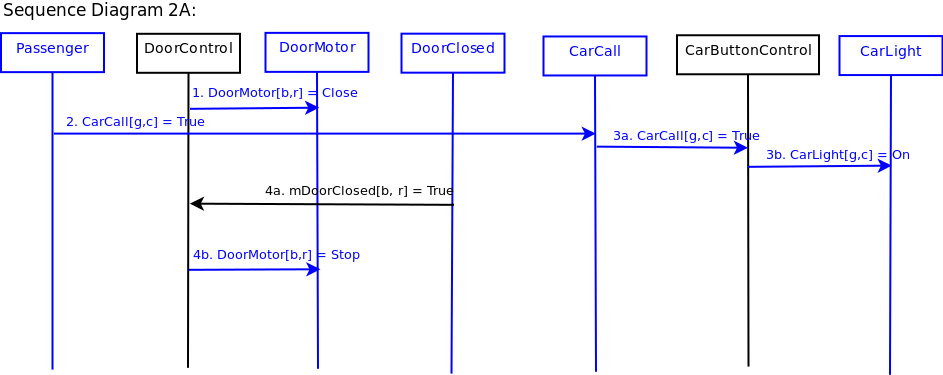
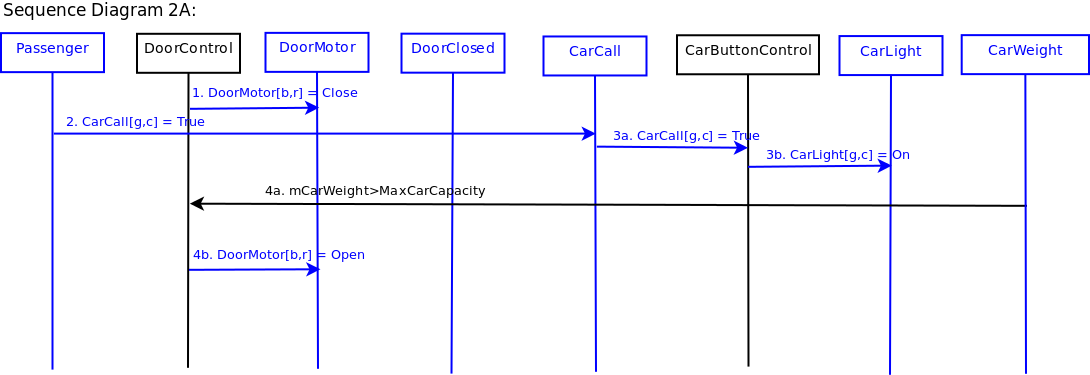
wxl 2A

diff --git a/portfolio/portfolio/scen_sd/scen_sd.html b/portfolio/portfolio/scen_sd/scen_sd.html
@@ -170,12 +170,12 @@ b</b> might or might not be equal to <b>c</b>. </li>
   <li>Door[<b>b</b>,<b>r</b>] starts closing. </li>
   <li>Passenger presses button CarCall[<b>g</b>,<b>c</b>].</li>
   <li>CarLight[<b>g</b>,<b>c</b>] lights up. </li>
-  <li>Doors complete closing. </li>
+  <li>mCarWeight is bigger than MaxCarCapacity and cardoor reopen. </li>
 </ol>
 <h3> Post-Conditions: </h3>
 <ul type="disc">
   <li>Elevator is at the passenger's floor. </li>
-  <li>All doors are closed. </li>
+  <li>All doors are opening. </li>
   <li>Car button light for passenger's desired floor is on. </li>
 </ul>
 <h3> Sequence Diagram: </h3>
